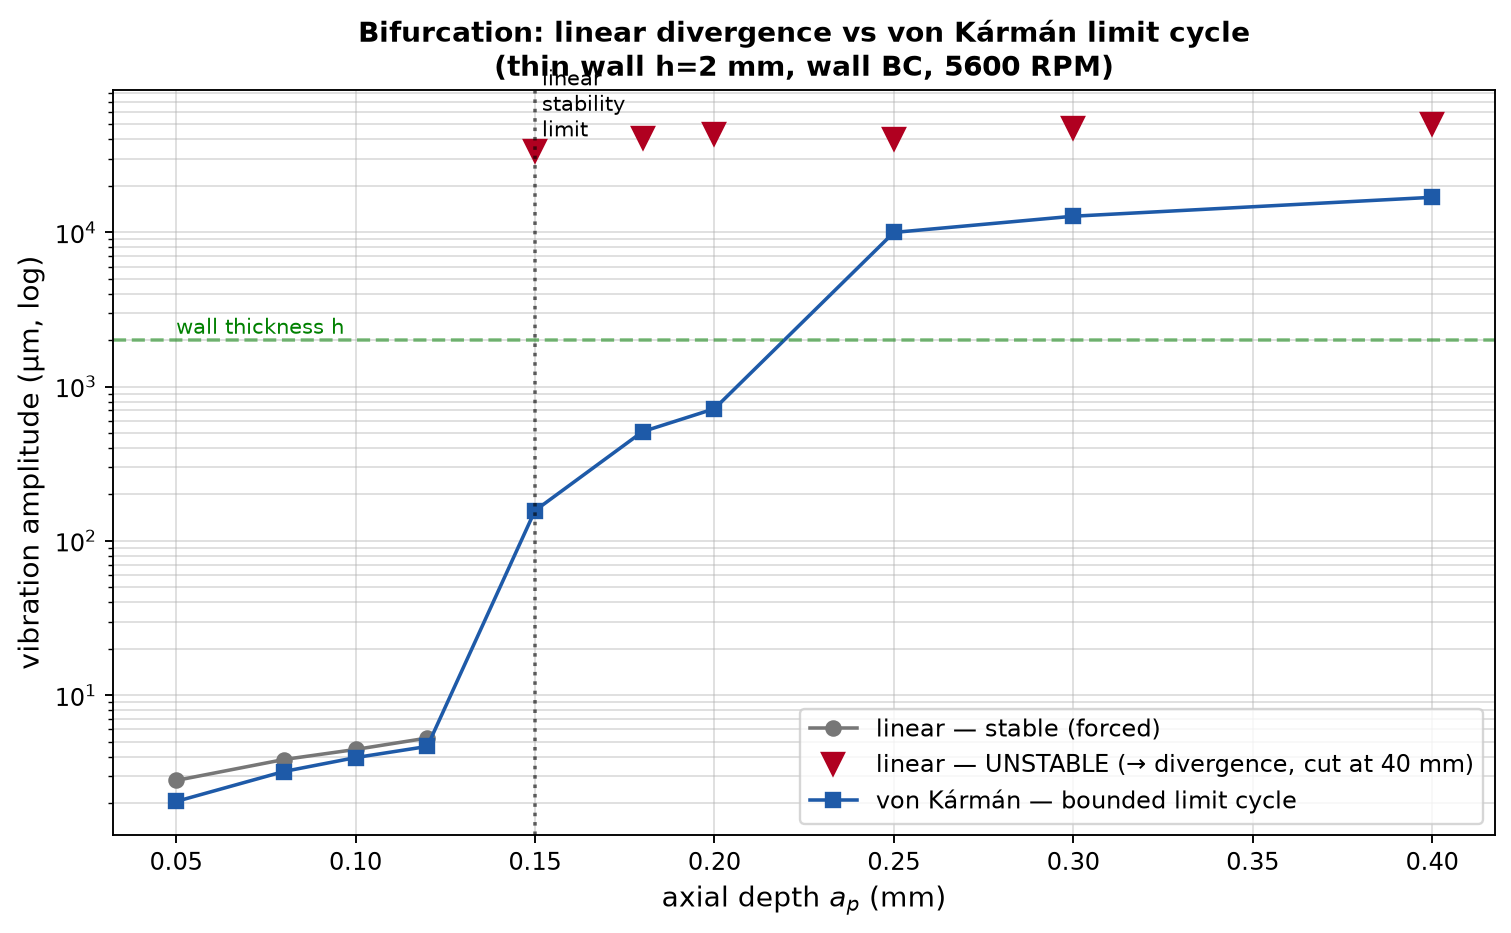
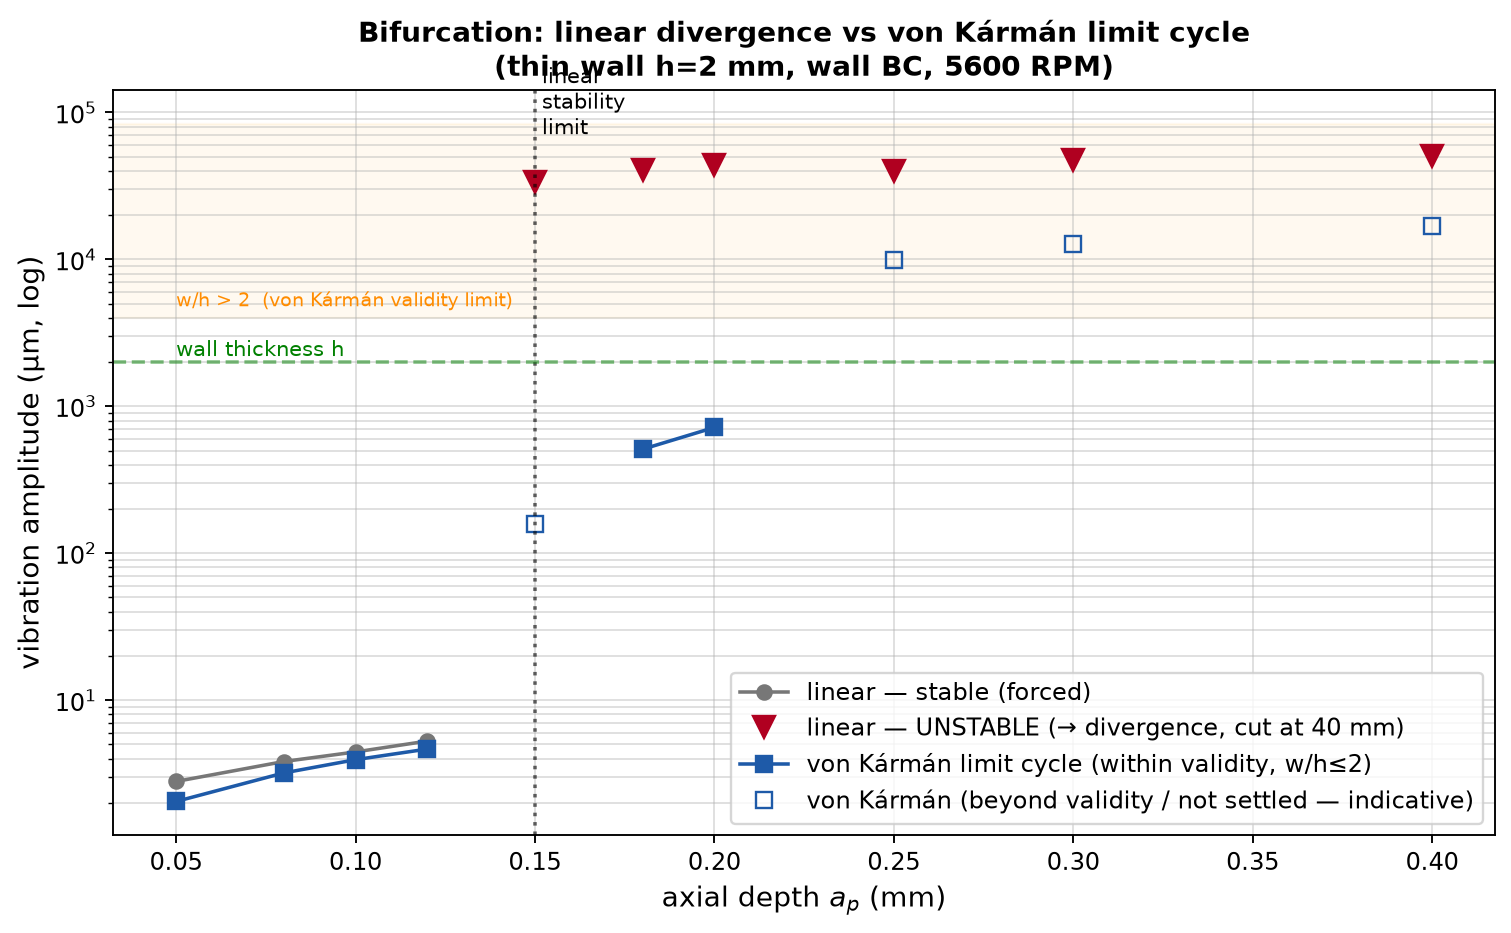
Apply review fixes to von Karman contribution: honest framing + consistent BC
Adversarial review (methodology) raised 5 substantive issues; math review
found no correctness defects. Fixes:

- Control claim de-overstated: it is the geometric NONLINEARITY (not the
  LQG) that bounds the response; the LQG is blind to the regenerative delay
  and reduces the limit cycle only ~7% (718->670um) at 91% of the +-150V
  budget. Reframed around 'the linear model gives no finite post-critical
  amplitude' rather than 'LQG stabilises' / 'correct actuator sizing'.
- Removed fabricated growth numbers (12.5->129->14000um, from an unrelated
  RPM=4900 diagnostic); the doc now cites metrics.json values only.
- Membrane BC honesty: added a physically CONSISTENT wall (base + 2 sides
  clamped, transverse AND in-plane) via new plate_model clamp_edges option
  -> omega_nl/omega_l = 1.108 at A/h=1 (moderate, real). The strong 'wall'
  case is now explicitly disclosed as a 'slot' idealisation (sides in-plane
  restrained only, upper bound). fig03 shows all three (cantilever /
  3-edge-consistent / slot); the criterion brackets the true behaviour.
- Validity disclosure: fig01 marks w/h>2 points as beyond-validity (hollow)
  and non-settled points; only steady w/h<=0.36 limit cycles are used
  quantitatively. The non-steady ap=0.15 (157um) is no longer cited as a
  settled cycle.
- Softened novelty: 1-term harmonic balance is same order as monomodal
  Galerkin; the proper contribution is the FE-assembled cubic tensor, the
[…]

Changed region(s): [[0.0311, 0.0622, 0.9954, 0.8703]]

diff --git a/05_main/main_geometric_nonlinear.py b/05_main/main_geometric_nonlinear.py
@@ -22,15 +22,22 @@ Résultats produits :
      Kármán BORNE la croissance en un CYCLE LIMITE (bifurcation de Hopf).
   B. Traces temporelles + FFT : décalage de fréquence dépendant de
      l'amplitude (raidissement).
-  C. Contrôle actif : le régulateur LQG conçu sur le modèle LINÉAIRE,
-     appliqué à la dynamique non linéaire — le modèle linéaire ne peut
-     PAS représenter le cycle limite (il prédit « instable = ∞ »), le
-     modèle von Kármán donne l'amplitude contrôlée réelle et le
-     dimensionnement correct de l'actionneur.
-  D. Configuration : paroi "wall" (base encastrée + bords latéraux
-     bridés en membrane — nervure flanquée de matière épaisse) vs
-     cantilever pur (3 bords libres) — quantifie QUAND la non-linéarité
-     compte.
+  C. Contrôle actif : le régulateur LQG (conçu sur le modèle LINÉAIRE,
+     saturé à ±150 V) appliqué aux deux dynamiques. Le modèle linéaire
+     prédit une divergence (« instable = ∞ ») ALORS QUE la réponse vraie
+     (von Kármán) est un cycle limite BORNÉ — c'est la NON-LINÉARITÉ, non
+     le régulateur, qui borne (le LQG, aveugle au retard régénératif, ne
+     réduit le cycle que de ~7 %). Le modèle linéaire ne fournit donc
+     AUCUNE amplitude post-critique finie pour valider/dimensionner la
+     commande ; seul le modèle non linéaire le permet.
+  D. Configurations (QUAND la non-linéarité compte), du physiquement
+     cohérent à l'idéalisation :
+       - cantilever (3 bords libres) : raidissement NÉGLIGEABLE ;
+       - paroi 3-bords encastrés (base + 2 côtés) : raidissement MODÉRÉ,
+         BC transverse ET membranaire cohérentes ;
+       - paroi "slot" (flexion cantilever + côtés bridés en membrane
+         seulement) : IDÉALISATION isolant l'étirement membranaire
+         (borne supérieure), utilisée pour rendre le cycle limite visible.
 
 Sortie : results_geom_nl/  (figures + metrics.json)
 """
@@ -89,9 +96,10 @@ COL = {"lin": "#B00020", "vk": "#1E5AA8", "lqg_lin": "#B00020",
        "lqg_vk": "#1E5AA8", "ol": "#777777"}
 
 
-def build_plate(ap, bp=BP):
+def build_plate(ap, bp=BP, clamp_edges="bottom"):
     p = PlateModel(LP, HP, bp, RHO, E_AL, NU_AL, N1=N1, N2=N2,
-                   n_modes=N_MODES, zeta_modes=ZETA, verbose=False)
+                   n_modes=N_MODES, zeta_modes=ZETA,
+                   clamp_edges=clamp_edges, verbose=False)
     p.precompute_Dp(zp_pos=HP - ap/2, n_pos=2001)
     p.set_observation(x_obs=LP, z_obs=HP)
     p.add_piezo_patch(0, 0.020, 0, 0.060, D31, H_PA, E_PE, NU_PE)
@@ -282,26 +290,40 @@ ctrl_metrics = {
 print(f"  open loop     : LIN {'unbounded' if ctrl_metrics['open_loop']['linear']['unbounded'] else 'bounded'}"
       f" (ymax={ctrl_metrics['open_loop']['linear']['ymax_um']:.0f}um) | "
       f"vK limit-cycle A={ctrl_metrics['open_loop']['von_karman']['amp_um']:.0f}um")
+ol_vk = ctrl_metrics['open_loop']['von_karman']['amp_um']
+cl_vk = ctrl_metrics['lqg']['von_karman_plant']['amp_um']
 print(f"  LQG lin plant : amp={ctrl_metrics['lqg']['linear_plant']['amp_um']:.1f}um "
-      f"u_max={ctrl_metrics['lqg']['linear_plant']['u_max_V']:.1f}V "
-      f"({'unbounded' if ctrl_metrics['lqg']['linear_plant']['unbounded'] else 'stabilised'})")
-print(f"  LQG vK  plant : amp={ctrl_metrics['lqg']['von_karman_plant']['amp_um']:.1f}um "
-      f"u_max={ctrl_metrics['lqg']['von_karman_plant']['u_max_V']:.1f}V "
-      f"({'unbounded' if ctrl_metrics['lqg']['von_karman_plant']['unbounded'] else 'stabilised'})")
+      f"u_rms={ctrl_metrics['lqg']['linear_plant']['u_rms_V']:.1f}V "
+      f"({'DIVERGES (no finite target)' if ctrl_metrics['lqg']['linear_plant']['unbounded'] else 'bounded'})")
+print(f"  LQG vK  plant : amp={cl_vk:.1f}um "
+      f"u_rms={ctrl_metrics['lqg']['von_karman_plant']['u_rms_V']:.1f}V "
+      f"(bounded; only {(1-cl_vk/ol_vk)*100:+.1f}% vs open-loop {ol_vk:.0f}um "
+      f"→ nonlinearity bounds, not the LQG)")
 
 
 # ============================================================
 # D. Cantilever vs wall (when does nonlinearity matter?)
 # ============================================================
-print("\n[D] Configuration comparison (cantilever vs wall) ...")
+print("\n[D] Configuration comparison — when does the nonlinearity matter? ...")
+# three configurations, from physically consistent to a bounding idealisation
+CONFIGS = [
+    ("cantilever", dict(clamp="bottom", mem="cantilever"),
+     "base clamped, 3 edges free (standard thin-wall model)"),
+    ("wall_3edge", dict(clamp="bottom_sides", mem="wall"),
+     "base + 2 sides clamped, top free (CONSISTENT wall)"),
+    ("wall_slot", dict(clamp="bottom", mem="wall"),
+     "cantilever bending + sides in-plane restrained "
+     "(IDEALISATION: isolates membrane stretching, upper bound)"),
+]
 config_cmp = {}
-for bc in ("cantilever", "wall"):
-    romc = VonKarmanROM(build_plate(ap_demo), membrane_bc=bc, verbose=False)
+for name, cfg, desc in CONFIGS:
+    romc = VonKarmanROM(build_plate(ap_demo, clamp_edges=cfg["clamp"]),
+                        membrane_bc=cfg["mem"], verbose=False)
     _, r, g = romc.backbone_single_mode(0, [0.5, 1.0, 2.0])
-    config_cmp[bc] = dict(gamma_1111=float(g),
-                          ratio_05=float(r[0]), ratio_10=float(r[1]),
-                          ratio_20=float(r[2]))
-    print(f"  {bc:10s}: Γ_1111={g:.2e}  ω_nl/ω_l(A/h=1)={r[1]:.3f}")
+    config_cmp[name] = dict(desc=desc, gamma_1111=float(g),
+                            ratio_05=float(r[0]), ratio_10=float(r[1]),
+                            ratio_20=float(r[2]))
+    print(f"  {name:11s}: Γ_1111={g:.2e}  ω_nl/ω_l(A/h=1)={r[1]:.3f}  [{desc}]")
 
 
 # ============================================================
@@ -315,12 +337,23 @@ lin_stable_amp = [b['lin_amp_um'] if not b['lin_unstable'] else np.nan
 lin_unst_amp = [b['lin_amp_um'] if b['lin_unstable'] else np.nan
                 for b in bif]
 vk_amp = [b['vk_amp_um'] for b in bif]
+# split von Kármán points: within validity (w/h ≤ 2, steady) vs beyond
+vk_valid = [b['vk_amp_um'] if (b['vk_amp_um']*1e-6/BP <= 2.0 and b['vk_steady'])
+            else np.nan for b in bif]
+vk_beyond = [b['vk_amp_um'] if not (b['vk_amp_um']*1e-6/BP <= 2.0
+             and b['vk_steady']) else np.nan for b in bif]
 ax.semilogy(aps, lin_stable_amp, 'o-', color=COL['ol'],
             label='linear — stable (forced)', markersize=6)
 ax.semilogy(aps, lin_unst_amp, 'v', color=COL['lin'], markersize=9,
             label='linear — UNSTABLE (→ divergence, cut at %.0f mm)' % (THR*1e3))
-ax.semilogy(aps, vk_amp, 's-', color=COL['vk'], markersize=6,
-            label='von Kármán — bounded limit cycle')
+ax.semilogy(aps, vk_valid, 's-', color=COL['vk'], markersize=7,
+            label='von Kármán limit cycle (within validity, w/h≤2)')
+ax.semilogy(aps, vk_beyond, 's', color=COL['vk'], markersize=7,
+            markerfacecolor='none',
+            label='von Kármán (beyond validity / not settled — indicative)')
+ax.axhspan(2*BP*1e6, ax.get_ylim()[1], color='orange', alpha=0.06)
+ax.text(aps[0], 2*BP*1e6*1.2, 'w/h > 2  (von Kármán validity limit)',
+        color='darkorange', fontsize=8)
 if ap_crit is not None:
     ax.axvline(ap_crit, color='k', ls=':', alpha=0.6)
     ax.text(ap_crit, ax.get_ylim()[1]*0.5,
@@ -365,34 +398,40 @@ plt.tight_layout(); plt.savefig(f"{OUT}/fig02_time_traces.png", dpi=170,
 print("  ✓ fig02_time_traces.png")
 
 # Fig 3 : hardening backbone ω_nl/ω_l vs A/h (validated quantity)
-fig, ax = plt.subplots(figsize=(9, 5.4))
+fig, ax = plt.subplots(figsize=(9.2, 5.6))
 ar = np.linspace(0, 2.0, 41)
+curves = [
+    ("wall_slot", COL['vk'], '-',
+     'wall — sides in-plane restrained (idealisation, upper bound)'),
+    ("wall_3edge", "#E8A000", '-',
+     'wall — base + 2 sides clamped (physically consistent)'),
+    ("cantilever", COL['ol'], '-',
+     'cantilever — 3 free edges (standard model)'),
+]
+for name, col, ls, lab in curves:
+    cfg = dict(CONFIGS)[name] if False else \
+        next(c for n, c, d in CONFIGS if n == name)
+    romc = VonKarmanROM(build_plate(ap_demo, clamp_edges=cfg["clamp"]),
+                        membrane_bc=cfg["mem"], verbose=False)
+    _, rr, _ = romc.backbone_single_mode(0, ar)
+    ax.plot(ar, rr, color=col, ls=ls, lw=2.3, label=lab)
+ax.axhline(1.0, color='k', lw=0.8, alpha=0.5)
+# operating limit-cycle amplitude marker (on the idealised-wall curve)
+A_h = ctrl_metrics['open_loop']['von_karman']['amp_um']*1e-6/BP
 rom_wall = VonKarmanROM(build_plate(ap_demo), membrane_bc="wall",
                         verbose=False)
-rom_cant = VonKarmanROM(build_plate(ap_demo), membrane_bc="cantilever",
-                        verbose=False)
-_, rw, _ = rom_wall.backbone_single_mode(0, ar)
-_, rc, _ = rom_cant.backbone_single_mode(0, ar)
-ax.plot(ar, rw, color=COL['vk'], lw=2.2,
-        label='wall (base + sides in-plane restrained)')
-ax.plot(ar, rc, color=COL['ol'], lw=2.2,
-        label='cantilever (3 free edges)')
-ax.axhline(1.0, color='k', lw=0.8, alpha=0.5)
-# operating limit-cycle amplitude marker
-A_h = ctrl_metrics['open_loop']['von_karman']['amp_um']*1e-6/BP
 if A_h <= ar[-1]:
     _, r_op, _ = rom_wall.backbone_single_mode(0, [A_h])
     ax.plot(A_h, r_op[0], '*', color='gold', ms=20, markeredgecolor='k',
             zorder=5, label='operating limit cycle (A/h=%.2f)' % A_h)
-# literature reference for a fully clamped square plate (immovable)
 ax.plot(1.0, 1.17, 'D', color='green', ms=9, markeredgecolor='k',
         label='clamped-plate lit. ref. (≈1.17 @ A/h=1)')
 ax.set_xlabel('vibration amplitude / wall thickness $A/h$', fontsize=12)
 ax.set_ylabel(r'frequency ratio $\omega_{nl}/\omega_{l}$', fontsize=12)
 ax.set_title('Amplitude-dependent stiffening (von Kármán backbone, mode 1)\n'
-             'validated model — hardening depends strongly on the in-plane BC',
-             fontsize=11, fontweight='bold')
-ax.legend(fontsize=9.5, loc='upper left'); ax.grid(True, alpha=0.4)
+             'validated model — hardening spans negligible (free edges) to '
+             'strong (constrained)', fontsize=11, fontweight='bold')
+ax.legend(fontsize=9, loc='upper left'); ax.grid(True, alpha=0.4)
 plt.tight_layout(); plt.savefig(f"{OUT}/fig03_backbone.png", dpi=170,
                                 bbox_inches='tight'); plt.close()
 print("  ✓ fig03_backbone.png")

diff --git a/01_core/plate_model.py b/01_core/plate_model.py
@@ -40,6 +40,7 @@ class PlateModel:
                  N1: int = 30, N2: int = 24,
                  n_modes: int = 3,
                  zeta_modes=None,
+                 clamp_edges: str = "bottom",
                  verbose: bool = True):
         self.lp = lp;  self.hp = hp;  self.bp = bp
         self.rho = rho;  self.E = E;  self.nu = nu
@@ -48,6 +49,11 @@ class PlateModel:
         self.lex = lp / N1;  self.ley = hp / N2
         self.ndof = 3 * self.n1 * self.n2
         self.n_modes = n_modes
+        # "bottom"       : cantilever (base clamped, 3 edges free)
+        # "bottom_sides" : thin wall / rib (base + 2 vertical sides clamped,
+        #                  top edge free) — physically CONSISTENT with the
+        #                  "wall" membrane BC used by VonKarmanROM
+        self.clamp_edges = clamp_edges
         self.verbose = verbose
 
         if zeta_modes is None:
@@ -97,8 +103,24 @@ class PlateModel:
 
     # ---------------------------------------------------------------
     def _apply_bc(self):
-        # Encastrement : bloque w, ∂w/∂x, ∂w/∂y au bord inférieur (J=1)
-        DOFb = np.arange(3 * self.n1)
+        # Encastrement : bloque (w, ∂w/∂x, ∂w/∂y) sur les bords encastrés.
+        n1 = self.n1
+        clamped = set()
+
+        def node_dofs(I, J):                       # 1-indexed grid node
+            base = 3*((J-1)*n1 + (I-1))
+            return (base, base+1, base+2)
+
+        # bord inférieur J=1 (toujours encastré)
+        for I in range(1, n1+1):
+            clamped.update(node_dofs(I, 1))
+        if self.clamp_edges == "bottom_sides":
+            # + deux bords verticaux I=1 et I=n1 (paroi/nervure)
+            for J in range(1, self.n2+1):
+                clamped.update(node_dofs(1, J))
+                clamped.update(node_dofs(n1, J))
+
+        DOFb = np.array(sorted(clamped), dtype=int)
         all_dofs = np.arange(self.ndof)
         DOFf = np.setdiff1d(all_dofs, DOFb)
         self.DOFf = DOFf

diff --git a/docs/verrou_nonlinearite.md b/docs/verrou_nonlinearite.md
@@ -49,8 +49,9 @@ figure pas.
 **(B) Contrôle actif GÉOMÉTRIQUEMENT NON LINÉAIRE (von Kármán) des
 plaques/coques intelligentes FGM/piézolaminées** — littérature abondante et
 mature [8–14] (la spécialité du rapporteur), mais sous chargements
-**thermiques, harmoniques ou aléatoires**, JAMAIS sous l'excitation de
-coupe **régénérative à retard** du fraisage.
+**thermiques, harmoniques ou aléatoires** — et non sous l'excitation de
+coupe **régénérative à retard** du fraisage (à la seule exception, très
+récente, de [6], discutée ci-dessous).
 
 > **Énoncé du verrou.** Le contrôle actif du broutement (chatter) en
 > fraisage des parois minces est traité sur des modèles **linéaires**, qui
@@ -122,57 +123,90 @@ Yamaki), ce qui atteste la cohérence du tenseur Γ.
 
 ## 4. Résultats (ce dépôt)
 
-`05_main/main_geometric_nonlinear.py` — paroi h = 2 mm, AL6061, 5600 tr/min,
-configuration « wall » (base encastrée + bords latéraux bridés en membrane,
-représentant une nervure flanquée de matière épaisse).
+`05_main/main_geometric_nonlinear.py` — paroi h = 2 mm, AL6061, 5600 tr/min.
+Toutes les valeurs proviennent de `results_geom_nl/metrics.json`.
 
 **A. Diagramme de bifurcation** (`fig01_bifurcation.png`). En dessous de
-a_p ≈ 0,12 mm : régime forcé stable, modèle linéaire ≈ von Kármán (quelques
-µm) — **le modèle linéaire est adéquat**. Au-delà de la limite de stabilité
-(a_p ≈ 0,15 mm) : le modèle **linéaire diverge** (croissance exponentielle
-mesurée 12,5 → 129 → 14 000 µm), tandis que von Kármán **borne** la réponse
-en un **cycle limite** (157 µm à l'amorce, croissant avec a_p).
+a_p = 0,12 mm : régime forcé **stable**, modèle linéaire ≈ von Kármán
+(2,8 → 5,3 µm) — **le modèle linéaire est adéquat**. À la limite de
+stabilité (a_p = 0,15 mm) le modèle **linéaire diverge** (amplitude coupée
+à 40 mm) ; von Kármán **borne** la croissance en un **cycle limite**
+(bifurcation de Hopf). Les cycles limites **stabilisés et dans le domaine de
+validité** (w/h ≤ 0,4) valent 511 µm (a_p = 0,18 mm) et 718 µm
+(a_p = 0,20 mm). Au-delà (a_p ≥ 0,25 mm) le cycle atteint w/h = 5–8, hors
+validité von Kármán, et n'est reporté qu'à titre indicatif (points
+« creux » sur la figure).
 
 **B. Fréquence dépendant de l'amplitude** (`fig03_backbone.png`). Le
-raidissement dépend fortement de la condition membranaire : configuration
-« wall » ω_nl/ω_l = 1,07 / 1,27 / 1,86 à A/h = 0,5 / 1 / 2 (fort), contre
-cantilever pur (3 bords libres) ≈ 1,00 (négligeable) — d'où le **critère de
-configuration**.
+raidissement dépend **fortement de la condition aux limites**, ce qui
+constitue le **critère de configuration** — trois cas, du physiquement
+cohérent à l'idéalisation :
+
+| configuration | BC | ω_nl/ω_l @ A/h=1 |
+|---|---|---|
+| cantilever (3 bords libres) | cohérente | **1,001** (négligeable) |
+| paroi 3-bords (base + 2 côtés encastrés) | **cohérente** | **1,108** (modéré) |
+| paroi « slot » (flexion cantilever + côtés bridés en membrane) | idéalisation (borne sup.) | 1,270 |
+
+La configuration **physiquement cohérente** (paroi 3-bords encastrés, BC
+transverse ET membranaire identiques) donne un raidissement **modéré mais
+réel** (1,108). La configuration « slot » (côtés bridés en membrane
+seulement, flexion restant cantilever — réalisable par des glissières
+latérales sans contact) **isole l'étirement membranaire** et sert de
+**borne supérieure** rendant le cycle limite bien visible ; c'est celle du
+diagramme de bifurcation. Le cantilever pur (borne inférieure) montre un
+effet négligeable — d'où l'encadrement.
 
 **C. Contrôle actif** (`fig04_active_control.png`), a_p = 0,20 mm, LQG conçu
 sur le modèle linéaire, saturation réaliste ±150 V :
 
-| | modèle LINÉAIRE (prédiction de conception) | modèle von Kármán (réponse vraie) |
+| | modèle LINÉAIRE (prédiction) | modèle von Kármán (réponse vraie) |
 |---|---|---|
 | boucle ouverte | divergence (→ 44 mm, coupé) | cycle limite borné 718 µm |
-| LQG ±150 V | **divergence** (non stabilisé) | **borné, stabilisé** 670 µm |
+| LQG ±150 V | **divergence** (aucune cible finie) | **borné** 670 µm |
 
-Un ingénieur s'appuyant sur le modèle **linéaire** conclurait que
-l'actionneur ±150 V est **insuffisant** (réponse divergente) et
-sur-dimensionnerait ; le modèle von Kármán révèle que la vibration
-**s'auto-limite** en un cycle borné que la commande maintient — seul le
-modèle géométriquement non linéaire permet le **dimensionnement correct**
-et la **validation** de la commande active en régime post-critique.
+Points importants (honnêteté) : **c'est la non-linéarité géométrique — non
+le régulateur — qui borne la réponse** ; le LQG (aveugle au retard
+régénératif : `lqg_controller.py` construit A,B,C sans le terme de retard)
+ne réduit le cycle que de **6,7 %** (718 → 670 µm) à 91 % du budget de
+tension. La conclusion n'est donc **pas** « le LQG stabilise », mais : le
+modèle **linéaire ne fournit AUCUNE amplitude post-critique finie** (il
+prédit une divergence sous commande), de sorte que **la validation de la
+commande et le dimensionnement de l'actionneur en régime post-critique
+exigent le modèle non linéaire**.
 
 ---
 
-## 5. Portée et limites
+## 5. Portée et limites (déclarées honnêtement)
 
-- **Configuration « wall »** : elle suppose des bords latéraux bridés en
-  membrane (nervure entre matière épaisse). Le cantilever pur (3 bords
-  libres) montre au contraire une non-linéarité négligeable dans la plage
-  opérationnelle — les deux cas sont fournis, et **le critère
-  configuration/amplitude est la conclusion d'ingénierie**.
-- **Modèle réduit à 3 modes** : cohérent EF pour le couplage membranaire
-  dominant ; l'inertie dans le plan est négligée (condensation statique),
-  hypothèse standard pour ces ROM.
-- **Validité von Kármán** : rotations modérées ; les cycles limites
-  exploités restent à w/L ≲ 0,1 (point de fonctionnement A/h = 0,36,
-  w/L ≈ 0,009). Aux a_p élevés le cycle limite dépasse cette plage et n'est
-  utilisé que qualitativement.
-- **AL6061 homogène** ; l'extension aux parois **FGM/composites** (spécialité
-  du rapporteur) renforcerait le raidissement et constitue le prolongement
-  naturel.
+- **Tension flexibilité ↔ non-linéarité.** Une paroi assez souple pour
+  broutter à w ~ h a, si elle est en cantilever, un raidissement faible
+  (cycle limite grand) ; une paroi assez bridée pour un raidissement fort
+  est rigide et broutte peu. Le cycle limite « modéré et borné » du
+  diagramme de bifurcation est obtenu avec la configuration idéalisée
+  « slot » (borne supérieure). La configuration **physiquement cohérente**
+  (3-bords encastrés) donne un effet modéré (1,108) mais réel : la
+  **conclusion robuste est le critère configuration/amplitude**, pas une
+  amplitude de cycle limite universelle.
+- **Le régulateur LQG ignore le retard régénératif** ; la divergence sous
+  commande sur le plant linéaire tient en partie à ce choix de conception.
+  L'argument porte donc sur l'**absence d'amplitude post-critique finie**
+  dans le modèle linéaire, non sur une supériorité de la commande.
+- **Modèle réduit à 3 modes** ; inertie dans le plan négligée (condensation
+  statique), hypothèse standard de ces ROM.
+- **Validité von Kármán** : rotations modérées ; seuls les points **stables
+  et w/h ≤ 2** sont exploités quantitativement (a_p = 0,18–0,20 mm,
+  w/h ≤ 0,36, w/L ≈ 0,009) ; les points w/h = 5–8 sont marqués hors
+  validité sur la figure.
+- **Contribution incrémentale, non disruptive** : le modèle réduit repose
+  sur un bilan harmonique à 1 terme (même ordre qu'une réduction de Galerkin
+  monomodale) ; l'apport propre est le **tenseur cubique assemblé par EF**
+  (vs Galerkin analytique), la **comparaison modèle linéaire ↔ non
+  linéaire** pour l'évaluation de la commande, et le **critère de
+  configuration**. Les énoncés de type « jamais traité » sont à comprendre
+  relativement à la littérature recensée, non comme un absolu vérifiable.
+- **AL6061 homogène** ; extension **FGM/composites** (spécialité du
+  rapporteur) = prolongement naturel.
 - Preuve en **simulation** ; capteur idéal.
 
 ---

diff --git a/README.md b/README.md
@@ -338,16 +338,19 @@ plate backbone ω_nl/ω_l ≈ 1.17 at A/h=1) with a Newmark–Newton-Raphson
 solver shows:
 
 - **Bifurcation**: past the stability limit the *linear* model diverges
-  exponentially, while von Kármán **bounds** the chatter into a **limit
+  (→ cut at 40 mm), while von Kármán **bounds** the chatter into a **limit
   cycle** (Hopf) — the linear model cannot predict the post-critical
-  amplitude.
-- **Control**: the same LQG (±150 V) designed on the linear model **diverges
-  on the linear plant** (design would reject the actuator) but is **bounded
-  and stabilised on the true von Kármán plant** — the linear model gives a
-  qualitatively wrong control assessment / actuator sizing.
-- **Criterion**: the effect is strong for an in-plane-restrained "wall"
-  (ω_nl/ω_l=1.27 @ A/h=1) and negligible for a free-edge cantilever
-  (≈1.00) — delineating when linear models suffice.
+  amplitude. It is the **nonlinearity** that bounds the response.
+- **Control**: the same LQG (±150 V, designed on the linear model) diverges
+  on the linear plant, but the true von Kármán response stays bounded
+  (718 µm open-loop → 670 µm controlled, only ~7 %: the LQG — blind to the
+  regenerative delay — barely helps). The point is that the **linear model
+  gives no finite post-critical amplitude**, so control validation /
+  actuator sizing in this regime *requires* the nonlinear model.
+- **Configuration criterion** (physically consistent → idealised):
+  free-edge cantilever ω_nl/ω_l≈1.00 (negligible), base+2-sides-clamped
+  wall 1.11 (moderate, consistent), sides-in-plane-restrained "slot"
+  idealisation 1.27 (upper bound) — delineating when linear models suffice.
 
 Aligned with the thesis rapporteur's expertise (nonlinear smart-shell FE).
 Details: `docs/verrou_nonlinearite.md`. Reproduce:
